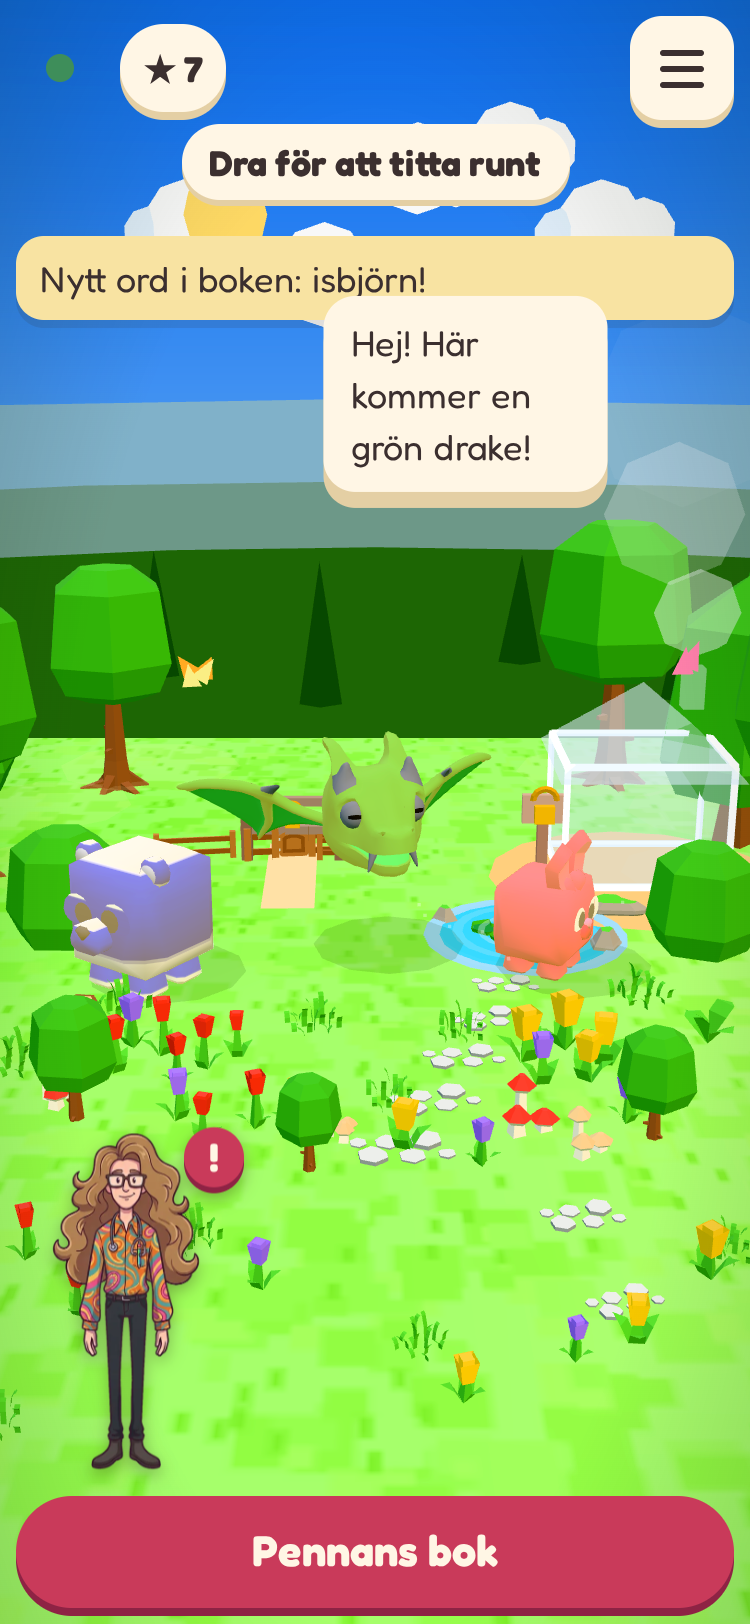
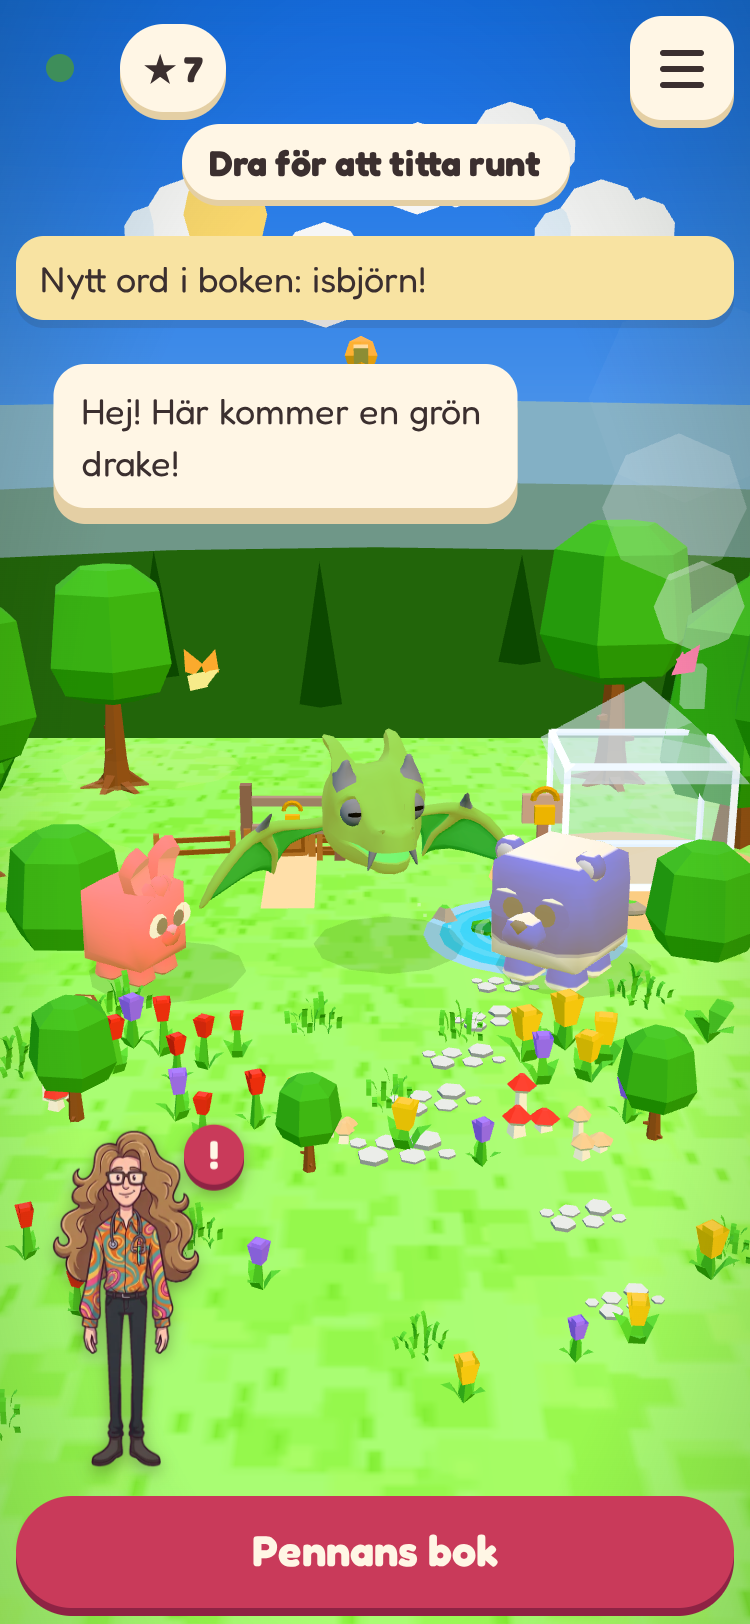
R8-1: före/efter-bilder, mått och rapport

diff --git a/RUNDAR8-1.md b/RUNDAR8-1.md
@@ -1,0 +1,4 @@
+# R8-1 (grafik)
+Patch r8-1 byte-lik. typecheck 0 fel, test:product 109/109, check:struktur grön, eslint 17 (som före), build:pages grön, data/src/tolk/public orörda, DOM-tur: bara vinjett-overlay + CSS-variabler.
+Mått (headless, mjukvaru-GL, EJ telefon, brus ±15 %): före draw 131, tri 21 900, medel 94 ms, p95 133–150; efter mjuk draw 130, tri 21 890, medel 105–111 ms, p95 200; lag medel 84, p95 150; pixel medel 92, p95 150. Riktig telefonmätning saknas.
+Färgrunda: blå isbjörn/röd isbjörn färgas nu; blåfisk, röd blåfisk, golem oförändrade; bilder `farg-fore-efter.png` (vänster före, höger efter per par).
